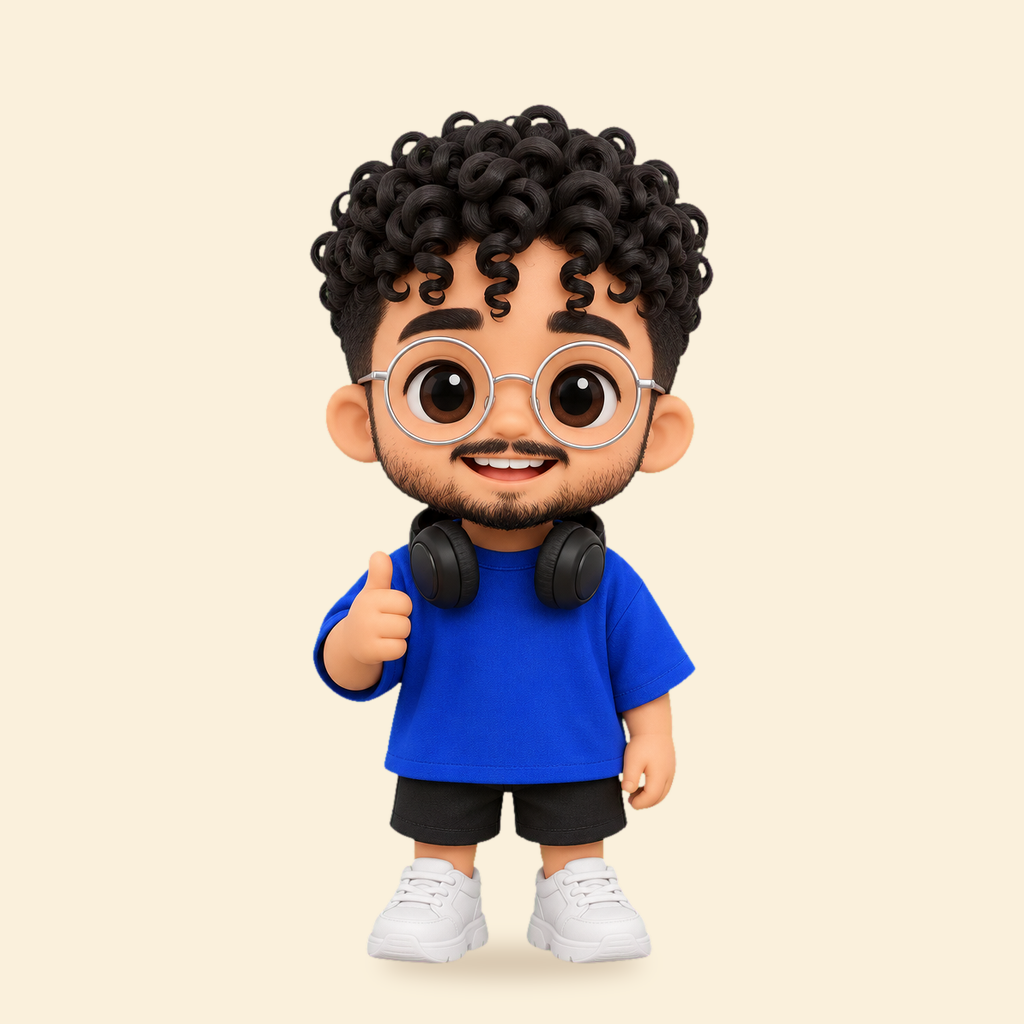
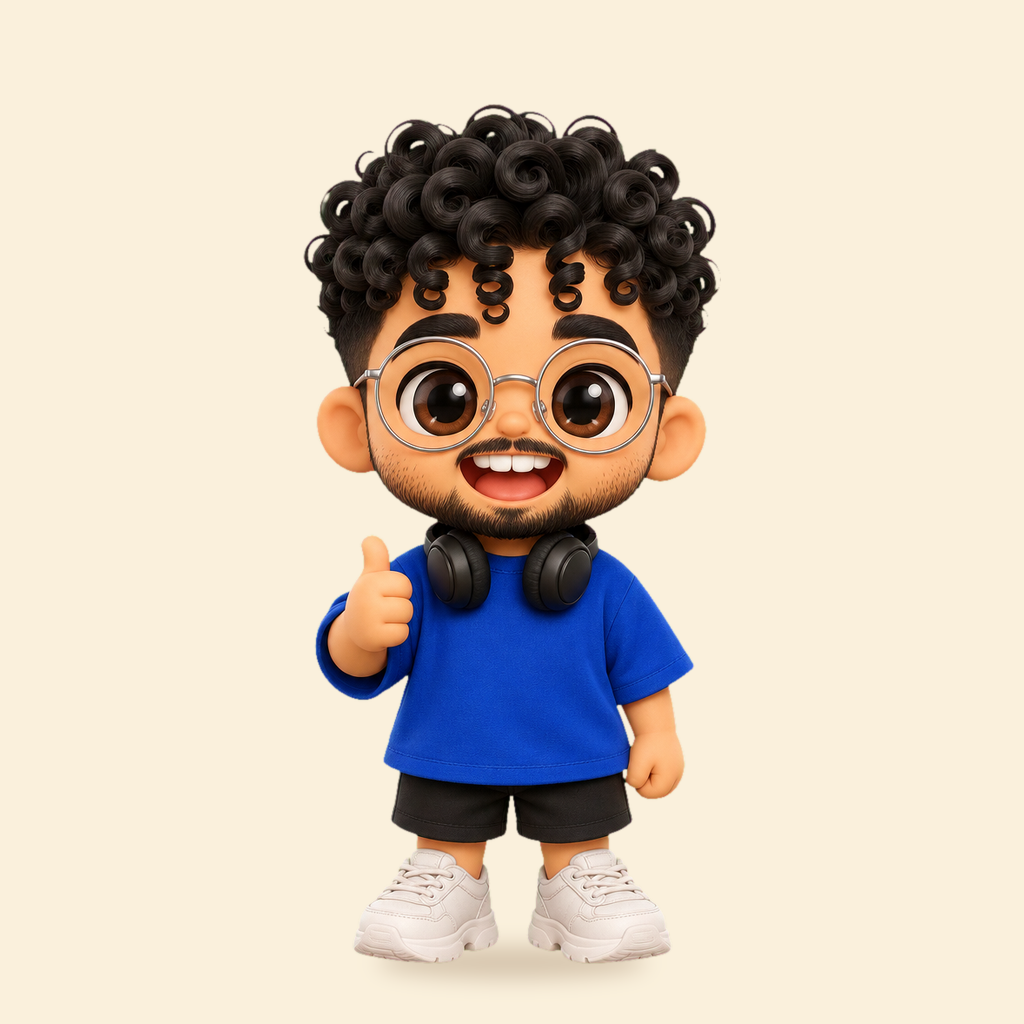
Cacau: dentes só aparecem quando sorri
Claude-Session: https://claude.ai/code/session_019N354in63g1zD5HF5LCsMh

Changed region(s): [[0.2812, 0.0938, 0.7188, 0.9375]]

diff --git a/mascote/cacau.html b/mascote/cacau.html
@@ -180,7 +180,7 @@
 
 <header class="hero">
   <h1 class="hero-nome" aria-label="Cacau">Cacau</h1>
-  <img class="hero-boneco" src="renders/cacau-hero-recorte.png" width="472" height="1000"
+  <img class="hero-boneco" src="renders/cacau-hero-recorte.png" width="481" height="989"
        alt="Cacau como boneco de vinil: cabelo cacheado, óculos redondos, dentinhos da frente à mostra, fone no pescoço, camiseta azul, fazendo joinha">
   <div class="hero-legenda">
     <span>Da mesma coleção do Wez</span>
@@ -197,7 +197,7 @@
         <ul class="tracos">
           <li style="--cor: var(--cabelo)"><div><strong>Cachos em molinha</strong><span>Volume no topo e alguns caracóis caindo na testa.</span></div></li>
           <li style="--cor: var(--oculos)"><div><strong>Óculos redondos</strong><span>Aro fino de metal prateado, lentes bem redondas.</span></div></li>
-          <li style="--cor: var(--tenis)"><div><strong>Dentinhos da frente</strong><span>Os dois de cima, um tiquinho maiores, aparecem no sorriso.</span></div></li>
+          <li style="--cor: var(--tenis)"><div><strong>Dentinhos da frente</strong><span>Só aparecem quando ele sorri: os dois de cima, um pouco maiores.</span></div></li>
           <li style="--cor: var(--barba)"><div><strong>Bigode e barba curta</strong><span>Mais marcada no queixo, rala nas bochechas.</span></div></li>
           <li style="--cor: var(--fone)"><div><strong>Fone no pescoço</strong><span>Headphone preto, sempre a postos.</span></div></li>
           <li style="--cor: var(--azul)"><div><strong>Camiseta azul-royal</strong><span>Larguinha, com bermuda preta e tênis branco.</span></div></li>
@@ -255,7 +255,7 @@
       <div class="chao"></div>
       <div class="andador" id="andador">
         <div class="sombra"></div>
-        <img src="renders/cacau-andando-recorte.png" width="496" height="978" alt="Cacau andando">
+        <img src="renders/cacau-andando-recorte.png" width="496" height="979" alt="Cacau andando">
       </div>
     </div>
   </section>
